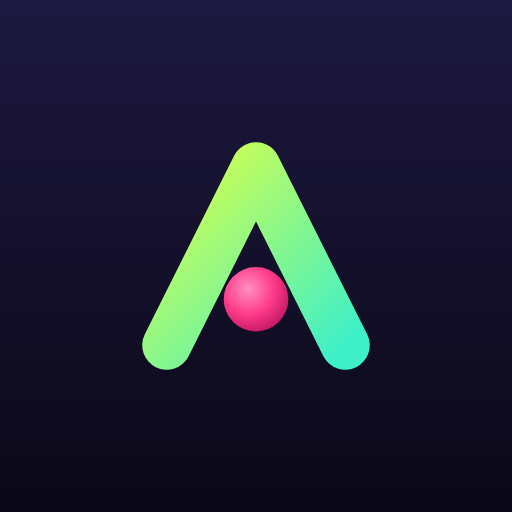
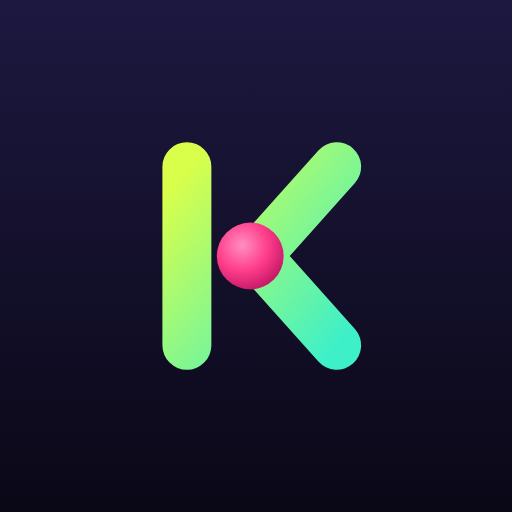
Rebrand to Kinetix with a game-agnostic slogan
New K mark (arms meet at a ball), KINETIX wordmark lockups, icons and
share image. Slogan is now "Games in motion." so it fits any game
added later. Sign-in, chess header and manifest say Kinetix.

Changed region(s): [[0.2812, 0.2812, 0.7188, 0.75], [0.6562, 0.7188, 0.6875, 0.75]]

diff --git a/index.html b/index.html
@@ -8,16 +8,16 @@
 <meta name="theme-color" content="#f4f3fa" media="(prefers-color-scheme: light)">
 <meta name="theme-color" content="#08070f" media="(prefers-color-scheme: dark)">
 <meta http-equiv="Content-Security-Policy" content="default-src 'self'; script-src 'self' https://cdn.jsdelivr.net; style-src 'self' 'unsafe-inline'; font-src 'self'; img-src 'self' data:; connect-src 'self' https://ajnzimwmykqgflymjoun.supabase.co; manifest-src 'self'; object-src 'none'; base-uri 'self'; form-action 'none'">
-<title>Arcade</title>
-<meta name="description" content="Chess, fantasy football and fantasy basketball. One account, every game, every device.">
+<title>Kinetix</title>
+<meta name="description" content="Kinetix: a growing collection of free browser games. One account, every game, every device.">
 <meta property="og:type" content="website">
-<meta property="og:title" content="Arcade">
-<meta property="og:description" content="Chess, fantasy football and fantasy basketball. One account, every game.">
+<meta property="og:title" content="Kinetix">
+<meta property="og:description" content="Games in motion. A growing collection of free browser games.">
 <meta property="og:image" content="https://kinetixgames12.github.io/arcade/shared/brand/og.png">
 <meta property="og:image:width" content="1200">
 <meta property="og:image:height" content="630">
 <meta name="twitter:card" content="summary_large_image">
-<link rel="icon" type="image/svg+xml" href="shared/icon.svg?v=2">
+<link rel="icon" type="image/svg+xml" href="shared/icon.svg?v=3">
 <link rel="icon" type="image/png" sizes="32x32" href="shared/brand/favicon-32.png">
 <link rel="apple-touch-icon" href="shared/brand/apple-touch-icon.png">
 <link rel="manifest" href="manifest.webmanifest">
@@ -29,7 +29,7 @@
 </head>
 <body>
 <header class="ar-topbar">
-  <a class="ar-brand" href="./" aria-label="Arcade home"><img src="shared/icon.svg?v=2" alt=""><span class="ar-wordmark">Arcade</span></a>
+  <a class="ar-brand" href="./" aria-label="Kinetix home"><img src="shared/icon.svg?v=3" alt=""><span class="ar-wordmark">Kinetix</span></a>
   <span class="ar-spacer"></span>
   <span id="themeBtn"></span>
   <div id="hubAcct"></div>
@@ -39,17 +39,17 @@
   <section class="hero">
     <div class="hero-bg" aria-hidden="true"><div class="hero-sun"></div><div class="hero-grid"></div></div>
     <div class="hero-in">
-      <img class="hero-mark" src="shared/icon.svg?v=2" alt="" width="96" height="96">
+      <img class="hero-mark" src="shared/icon.svg?v=3" alt="" width="96" height="96">
       <p class="ar-eyebrow" id="gameCount">Free browser games</p>
-      <h1 class="ar-display">Play. Draft.<br><span class="ar-grad-text">Checkmate.</span></h1>
-      <p class="hero-sub">Bots that talk back, leagues with your friends, and engine reviews that explain every move. One account, every game, every device.</p>
-      <div class="hero-cta"><a class="ar-btn lg" href="#games">Pick a game</a><a class="ar-btn lg ghost" href="chess/">Quick chess</a></div>
+      <h1 class="ar-display">Games in<br><span class="ar-grad-text">motion.</span></h1>
+      <p class="hero-sub">A growing collection of free games you play right in your browser. Strategy, sports and plenty more on the way. One account, every game, every device.</p>
+      <div class="hero-cta"><a class="ar-btn lg" href="#games">Pick a game</a><a class="ar-btn lg ghost" href="#perks">How it works</a></div>
     </div>
   </section>
 
   <div class="ticker" aria-hidden="true"><div class="ticker-in">
-    <span>Chess</span><i></i><span>Fantasy Football</span><i></i><span>Fantasy Basketball</span><i></i><span>Live drafts</span><i></i><span>Game review</span><i></i><span>Puzzles</span><i></i>
-    <span>Chess</span><i></i><span>Fantasy Football</span><i></i><span>Fantasy Basketball</span><i></i><span>Live drafts</span><i></i><span>Game review</span><i></i><span>Puzzles</span><i></i>
+    <span>Chess</span><i></i><span>Fantasy Football</span><i></i><span>Fantasy Basketball</span><i></i><span>More games on the way</span><i></i>
+    <span>Chess</span><i></i><span>Fantasy Football</span><i></i><span>Fantasy Basketball</span><i></i><span>More games on the way</span><i></i>
   </div></div>
 
   <section class="games-wrap" aria-labelledby="gamesTitle">
@@ -57,17 +57,17 @@
     <div class="grid" id="games"></div>
   </section>
 
-  <section class="perks">
+  <section class="perks" id="perks">
     <div class="perk"><b>One account</b><span>Sign in once. Your leagues, games and settings follow you to every device.</span></div>
-    <div class="perk"><b>Works on phones</b><span>Add Arcade to your home screen and it opens like an app.</span></div>
+    <div class="perk"><b>Works on phones</b><span>Add Kinetix to your home screen and it opens like an app.</span></div>
     <div class="perk"><b>Private by default</b><span>No ads, no trackers, no selling anything. Just games.</span></div>
   </section>
 </main>
 
-<footer class="foot"><img src="shared/icon.svg?v=2" alt="" width="22" height="22"><span class="ar-wordmark">Arcade</span><span class="ar-muted">Made for playing with friends.</span></footer>
+<footer class="foot"><img src="shared/icon.svg?v=3" alt="" width="22" height="22"><span class="ar-wordmark">Kinetix</span><span class="ar-muted">Games in motion. New ones keep landing.</span></footer>
 
 <script src="https://cdn.jsdelivr.net/npm/@supabase/supabase-js@2.110.1/dist/umd/supabase.js" integrity="sha384-cP+QrKcaFzs7aIG1IzHGLKC5cjjlA05fYF2E7C0hqeDvsLKzwgYAS1cYhsDQB+L1" crossorigin="anonymous"></script>
 <script src="shared/config.js?v=1"></script>
-<script type="module" src="shared/hub.js?v=2"></script>
+<script type="module" src="shared/hub.js?v=3"></script>
 </body>
 </html>

diff --git a/shared/account.js b/shared/account.js
@@ -1,4 +1,4 @@
-// Arcade account: one email + password sign-in shared by every game.
+// Kinetix account: one email + password sign-in shared by every game.
 // Games call client() for their own tables and mountAccount() for the
 // header button. Needs supabase-js (UMD) and shared/config.js loaded first.
 
@@ -43,14 +43,14 @@ export function mountAccount(el, opts = {}) {
     const u = await user();
     el.className = 'arc-acct';
     el.innerHTML = u
-      ? `<span class="arc-who" title="Signed in to Arcade as ${esc(u.email)}"><i aria-hidden="true">${esc((u.email || '?')[0].toUpperCase())}</i><span>${esc(u.email)}</span></span><button type="button" class="arc-link" data-arc="out">Sign out</button>`
+      ? `<span class="arc-who" title="Signed in to Kinetix as ${esc(u.email)}"><i aria-hidden="true">${esc((u.email || '?')[0].toUpperCase())}</i><span>${esc(u.email)}</span></span><button type="button" class="arc-link" data-arc="out">Sign out</button>`
       : '<button type="button" class="arc-btn" data-arc="in">Sign in</button>';
   };
   el.addEventListener('click', async (e) => {
     const b = e.target.closest('[data-arc]');
     if (!b) return;
     if (b.dataset.arc === 'in') openDialog();
-    else if (confirm('Sign out of Arcade on this device?')) await c.auth.signOut({ scope: 'local' });
+    else if (confirm('Sign out of Kinetix on this device?')) await c.auth.signOut({ scope: 'local' });
   });
   onAuthChange(render);
   render();
@@ -65,7 +65,7 @@ function openDialog() {
     dlg.className = 'arc-dialog';
     dlg.innerHTML = `
       <form method="dialog" class="arc-form">
-        <h2 data-t="title">Sign in to Arcade</h2>
+        <h2 data-t="title">Sign in to Kinetix</h2>
         <p class="arc-muted">One account for every game. Your settings and connections follow you to every device.</p>
         <label>Email<input name="email" type="email" autocomplete="email" required></label>
         <label>Password<input name="password" type="password" autocomplete="current-password" minlength="8" required></label>
@@ -82,7 +82,7 @@ function openDialog() {
     let signup = false;
     const setMode = (s) => {
       signup = s;
-      t('title').textContent = s ? 'Create an Arcade account' : 'Sign in to Arcade';
+      t('title').textContent = s ? 'Create a Kinetix account' : 'Sign in to Kinetix';
       t('go').textContent = s ? 'Create account' : 'Sign in';
       t('mode').textContent = s ? 'Have an account? Sign in' : 'New here? Create an account';
       f.password.autocomplete = s ? 'new-password' : 'current-password';

diff --git a/chess/index.html b/chess/index.html
@@ -7,14 +7,14 @@
 <meta name="referrer" content="no-referrer">
 <meta name="theme-color" content="#0d1117">
 <meta http-equiv="Content-Security-Policy" content="default-src 'self'; script-src 'self' https://cdn.jsdelivr.net; style-src 'self' 'unsafe-inline'; img-src 'self' data:; connect-src 'self' https://lichess.org https://unpkg.com https://ajnzimwmykqgflymjoun.supabase.co; worker-src 'self'; frame-src 'none'; object-src 'none'; base-uri 'self'; form-action 'none'">
-<title>Chess · Arcade</title>
-<link rel="icon" type="image/svg+xml" href="../shared/icon.svg">
+<title>Chess · Kinetix</title>
+<link rel="icon" type="image/svg+xml" href="../shared/icon.svg?v=3">
 <link rel="stylesheet" href="../shared/account.css?v=1">
 <link rel="stylesheet" href="style.css?v=2">
 </head>
 <body>
 <header class="top">
-  <a class="brand" href="../" aria-label="Back to Arcade"><img src="../shared/icon.svg" alt=""><span>Arcade <b>Chess</b></span></a>
+  <a class="brand" href="../" aria-label="Back to Kinetix"><img src="../shared/icon.svg?v=3" alt=""><span>Kinetix <b>Chess</b></span></a>
   <nav class="tabs" role="tablist">
     <button role="tab" data-tab="play">Bots</button>
     <button role="tab" data-tab="online">Lichess</button>
@@ -169,6 +169,6 @@
 <div class="toast" id="toast" hidden></div>
 <script src="https://cdn.jsdelivr.net/npm/@supabase/supabase-js@2.110.1/dist/umd/supabase.js" integrity="sha384-cP+QrKcaFzs7aIG1IzHGLKC5cjjlA05fYF2E7C0hqeDvsLKzwgYAS1cYhsDQB+L1" crossorigin="anonymous"></script>
 <script src="../shared/config.js?v=1"></script>
-<script type="module" src="app.js?v=2"></script>
+<script type="module" src="app.js?v=3"></script>
 </body>
 </html>

diff --git a/chess/app.js b/chess/app.js
@@ -3,8 +3,8 @@ import { Chess, DEFAULT_POSITION } from './vendor/chess.js?v=2';
 import { Board } from './board.js?v=2';
 import { Engine } from './engine.js?v=2';
 import * as li from './lichess.js?v=2';
-import * as sync from './sync.js?v=1';
-import { mountAccount, onAuthChange } from '../shared/account.js?v=1';
+import * as sync from './sync.js?v=2';
+import { mountAccount, onAuthChange } from '../shared/account.js?v=3';
 
 const $ = (s) => document.querySelector(s);
 const esc = (s) => String(s ?? '').replace(/[&<>"']/g, (c) => ({ '&': '&amp;', '<': '&lt;', '>': '&gt;', '"': '&quot;', "'": '&#39;' }[c]));
@@ -898,10 +898,10 @@ function renderSyncNote() {
   if (!el) return;
   if (hubUser) {
     el.textContent = account
-      ? 'Saved to your Arcade account — connected on every device where you\'re signed in.'
-      : 'Connect once and it follows your Arcade account to your other devices.';
+      ? 'Saved to your Kinetix account — connected on every device where you\'re signed in.'
+      : 'Connect once and it follows your Kinetix account to your other devices.';
   } else {
-    el.textContent = 'Tip: sign in to Arcade (top right) and your Lichess connection follows you to your phone and iPad.';
+    el.textContent = 'Tip: sign in to Kinetix (top right) and your Lichess connection follows you to your phone and iPad.';
   }
 }
 

diff --git a/shared/brand/og.html b/shared/brand/og.html
@@ -24,9 +24,9 @@ p { margin: 0; font-size: 25px; color: #b9b4d4; }
 </style></head><body>
 <div class="sun"></div><div class="grid"></div>
 <div class="left">
-  <div class="lock"><img src="../icon.svg" alt=""><span>ARCADE</span></div>
-  <h2>Play. Draft.<br><em>Checkmate.</em></h2>
-  <p>Chess · Fantasy Football · Fantasy Basketball</p>
+  <div class="lock"><img src="../icon.svg" alt=""><span>KINETIX</span></div>
+  <h2>Games in<br><em>motion.</em></h2>
+  <p>Chess · Fantasy sports · More on the way</p>
 </div>
 <div class="cards"><img class="c1" src="../art/fantasy-football.svg"><img class="c2" src="../art/fantasy-basketball.svg"><img class="c3" src="../art/chess.svg"></div>
 </body></html>

diff --git a/shared/hub.js b/shared/hub.js
@@ -1,5 +1,5 @@
-import { GAMES } from './games.js?v=2';
-import { mountAccount } from './account.js?v=2';
+import { GAMES } from './games.js?v=3';
+import { mountAccount } from './account.js?v=3';
 
 const esc = (s) => String(s ?? '').replace(/[&<>"']/g, (c) => ({ '&': '&amp;', '<': '&lt;', '>': '&gt;', '"': '&quot;', "'": '&#39;' }[c]));
 

diff --git a/shared/games.js b/shared/games.js
@@ -1,4 +1,4 @@
-// Every game on the Arcade home page. To add a game: make a folder for it
+// Every game on the Kinetix home page. To add a game: make a folder for it
 // next to chess/, add card art in shared/art/<slug>.svg, then add an entry
 // here. `soon: true` shows it greyed out.
 export const GAMES = [

diff --git a/shared/theme.js b/shared/theme.js
@@ -1,4 +1,4 @@
-// Arcade theme: follows the device (light/dark) unless the visitor picks one.
+// Kinetix theme: follows the device (light/dark) unless the visitor picks one.
 // Load as a plain <script> in <head> so the page never flashes the wrong theme.
 (function () {
   var KEY = 'arcade-theme';

diff --git a/chess/sync.js b/chess/sync.js
@@ -1,6 +1,6 @@
 // Carries the Lichess connection across devices through the Arcade account.
 // Table: public.lichess_links, one owner-only row per account.
-import { client, user } from '../shared/account.js?v=1';
+import { client, user } from '../shared/account.js?v=3';
 
 export { user };
 

diff --git a/README.md b/README.md
@@ -1,10 +1,12 @@
-# Arcade
+# Kinetix
+
+Kinetix is the brand; this repo is still called `arcade`.
 
 A hub of browser games with one shared account. Live at https://kinetixgames12.github.io/arcade/
 
 - `index.html` + `shared/` — the hub page, shared sign-in (`shared/account.js`) and the game list (`shared/games.js`).
-- `shared/arcade.css` — the Arcade look every game uses: colours, fonts (Unbounded + Inter, self-hosted in `shared/fonts/`, SIL OFL), buttons (`ar-btn`), cards, tabs, inputs. Light/dark follows the device; `shared/theme.js` adds a toggle.
-- `shared/icon.svg` — the Arcade mark (an A whose crossbar is a ball). `shared/brand/` holds the lockups, app icons, `og.png` share image and their HTML sources; `manifest.webmanifest` makes the hub installable.
+- `shared/arcade.css` — the Kinetix look every game uses: colours, fonts (Unbounded + Inter, self-hosted in `shared/fonts/`, SIL OFL), buttons (`ar-btn`), cards, tabs, inputs. Light/dark follows the device; `shared/theme.js` adds a toggle.
+- `shared/icon.svg` — the Kinetix mark (a K whose arms meet at a ball). `shared/brand/` holds the lockups, app icons, `og.png` share image and their HTML sources; `manifest.webmanifest` makes the hub installable.
 - `shared/art/<slug>.svg` — card art for each game on the hub.
 - `chess/` — bots, Lichess online play, Stockfish analysis and game review.
 - `supabase/migrations/` — database tables (Supabase project `arcade`). Every table is owner-only via row level security.
